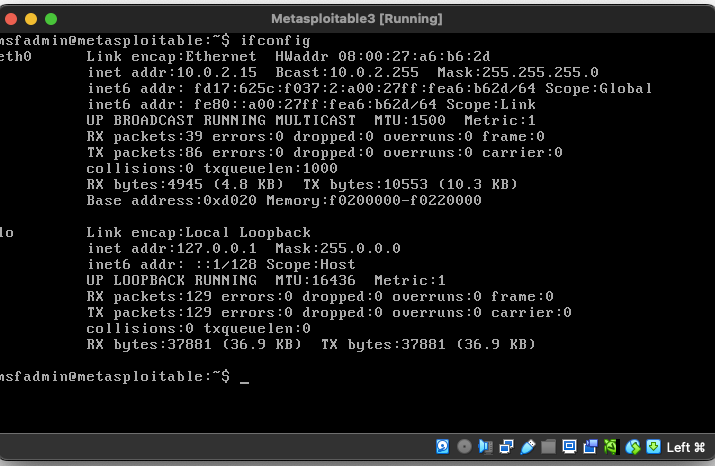
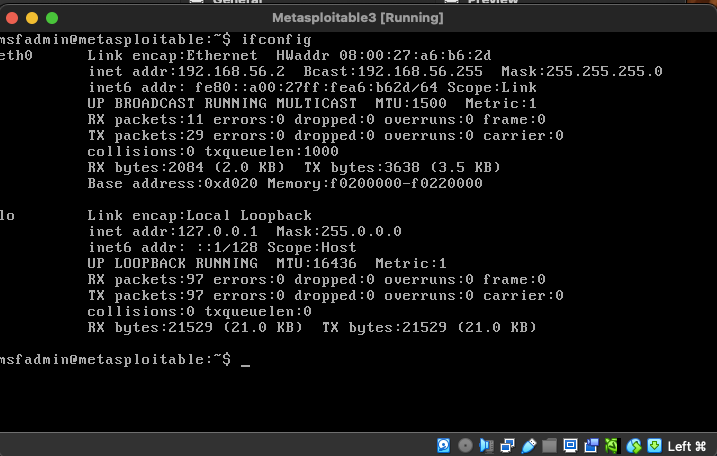
Update network config to Host-only and refresh screenshots
- Replace NAT Network screenshot with Host-only Network (pentestlab)
- Replace Metasploitable ifconfig screenshot (new IP: 192.168.56.2)
- Replace ping screenshot with new host-only network ping
- Update all network mode and IP references throughout write-up
- Update architecture diagram to reflect 192.168.56.0/24 subnet

Changed region(s): [[0.0, 0.0, 1.0, 0.8289], [0.0, 0.9211, 1.0, 1.0], [0.0, 0.4605, 0.0308, 0.5219]]

diff --git a/assignments/weekly-projects/project-1-labsetup.md b/assignments/weekly-projects/project-1-labsetup.md
@@ -39,9 +39,9 @@ This environment mirrors industry-standard pen testing setups and will be used f
 | **Hypervisor Type** | Type 2 – Oracle VirtualBox |
 | **Attacker VM** | Kali Linux 2026.1 (virtualbox-amd64) |
 | **Target VM** | Metasploitable |
-| **VM Network Mode** | NAT Network (VirtualBox) |
+| **VM Network Mode** | Host-only Network |
 
-> **Note on Hypervisor Choice:** Oracle VirtualBox was chosen because it is free, open-source, and Kali Linux provides a pre-built VirtualBox image. NAT Network mode allows VMs to communicate with each other and access the internet through the host, while remaining isolated from external networks.
+> **Note on Hypervisor Choice:** Oracle VirtualBox was chosen because it is free, open-source, and Kali Linux provides a pre-built VirtualBox image. Host-only Network mode allows VMs to communicate with each other and access the internet through the host, while remaining isolated from external networks.
 
 ---
 
@@ -59,8 +59,8 @@ Below is the architectural diagram of the lab environment:
 │    │  Oracle VirtualBox (Type 2 Hypervisor)   │         │
 │    │                                          │         │
 │    │   ┌─────────────────────────────────┐   │         │
-│    │   │  VirtualBox NAT Network         │   │         │
-│    │   │       (10.0.2.0/24)             │   │         │
+│    │   │  VirtualBox Host-only Network   │   │         │
+│    │   │     (192.168.56.0/24)           │   │         │
 │    │   │                                 │   │         │
 │    │   │  ┌──────────────────────────┐   │   │         │
 │    │   │  │   Kali Linux 2026.1      │   │   │         │
@@ -74,7 +74,7 @@ Below is the architectural diagram of the lab environment:
 │    │   │  │   Metasploitable          │   │   │         │
 │    │   │  │   (Target / Victim)      │   │   │         │
 │    │   │  │   User: msfadmin         │   │   │         │
-│    │   │  │   IP:   10.0.2.15        │   │   │         │
+│    │   │  │   IP:   192.168.56.2        │   │   │         │
 │    │   │  │   Services: Apache,      │   │   │         │
 │    │   │  │   Tomcat, SSH, FTP ...   │   │   │         │
 │    │   │  └──────────────────────────┘   │   │         │
@@ -92,7 +92,7 @@ Oracle VirtualBox was downloaded and installed from the [VirtualBox website](htt
 **Steps taken:**
 1. Downloaded the VirtualBox installer for macOS from `virtualbox.org`.
 2. Ran the installer and completed the setup wizard with default options.
-3. Configured each VM's network adapter to NAT Network via *Settings → Network → Attached to: NAT Network*.
+3. Configured each VM's network adapter to Host-only Network via *Settings → Network → Attached to: Host-only Network*.
 
 **Screenshot – VirtualBox running with Kali Linux VM:**
 
@@ -110,7 +110,7 @@ Kali Linux was downloaded from the [official Kali website](https://www.kali.org/
 1. Downloaded the Kali Linux VirtualBox image from `kali.org`.
 2. In VirtualBox, went to *File → Import Appliance* and selected the downloaded image.
 3. Completed the import wizard with default settings.
-4. Assigned the NAT Network adapter to the VM under *Settings → Network*.
+4. Assigned the Host-only Network adapter to the VM under *Settings → Network*.
 5. Booted the VM and logged in as user `swmsse642`.
 6. Updated the system:
    ```bash
@@ -176,7 +176,7 @@ Metasploitable is an intentionally vulnerable Linux VM designed as a penetration
 **Steps taken:**
 1. Downloaded the Metasploitable VM image.
 2. In VirtualBox, imported the VM using *File → Import Appliance*.
-3. Assigned the NAT Network adapter under *Settings → Network*.
+3. Assigned the Host-only Network adapter under *Settings → Network*.
 4. Booted the VM; the boot sequence showed services starting cleanly (Apache, Tomcat, cron — all `[OK]`).
 5. Logged in with the default credentials displayed in the boot banner: `msfadmin` / `msfadmin`.
 6. Confirmed network interface and IP address:
@@ -194,7 +194,7 @@ Metasploitable is an intentionally vulnerable Linux VM designed as a penetration
 
 ![Metasploitable ifconfig](images/08-metasploitable-ifconfig.png)
 
-> *The screenshot shows `ifconfig` output from Metasploitable after login, confirming the `eth0` interface is up with IP address `10.0.2.15`.*
+> *The screenshot shows `ifconfig` output from Metasploitable after login, confirming the `eth0` interface is up with IP address `192.168.56.2`.*
 
 ---
 
@@ -203,24 +203,24 @@ Metasploitable is an intentionally vulnerable Linux VM designed as a penetration
 To verify that the Kali Linux attacker machine can reach the Metasploitable target, a connectivity test was performed from within the Kali Linux VM.
 
 **Steps taken:**
-1. Confirmed Metasploitable's IP address from its terminal (`ifconfig`): `10.0.2.15`.
+1. Confirmed Metasploitable's IP address from its terminal (`ifconfig`): `192.168.56.2`.
 2. From the Kali Linux terminal, ran:
    ```bash
-   ping -c 4 10.0.2.15
+   ping -c 4 192.168.56.2
    ```
-3. Confirmed both VMs were on the same NAT Network within VirtualBox.
+3. Confirmed both VMs were on the same Host-only Network within VirtualBox.
 
 **Screenshot – Kali network configuration (NAT Network):**
 
 ![Kali Network Config](images/09-kali-network-config.png)
 
-> *The screenshot shows Kali's VirtualBox network adapter set to NAT Network mode, allowing VM-to-VM communication and internet access through the host machine.*
+> *The screenshot shows Kali's VirtualBox network adapter set to Host-only Network mode, allowing VM-to-VM communication and internet access through the host machine.*
 
 **Screenshot – Ping from Kali to Metasploitable:**
 
 ![Ping Test](images/10-ping-metasploitable.png)
 
-> *The screenshot shows network activity from the Kali Linux terminal confirming connectivity to the Metasploitable target on the NAT Network.*
+> *The screenshot shows network activity from the Kali Linux terminal confirming connectivity to the Metasploitable target on the Host-only Network.*
 
 ---
 